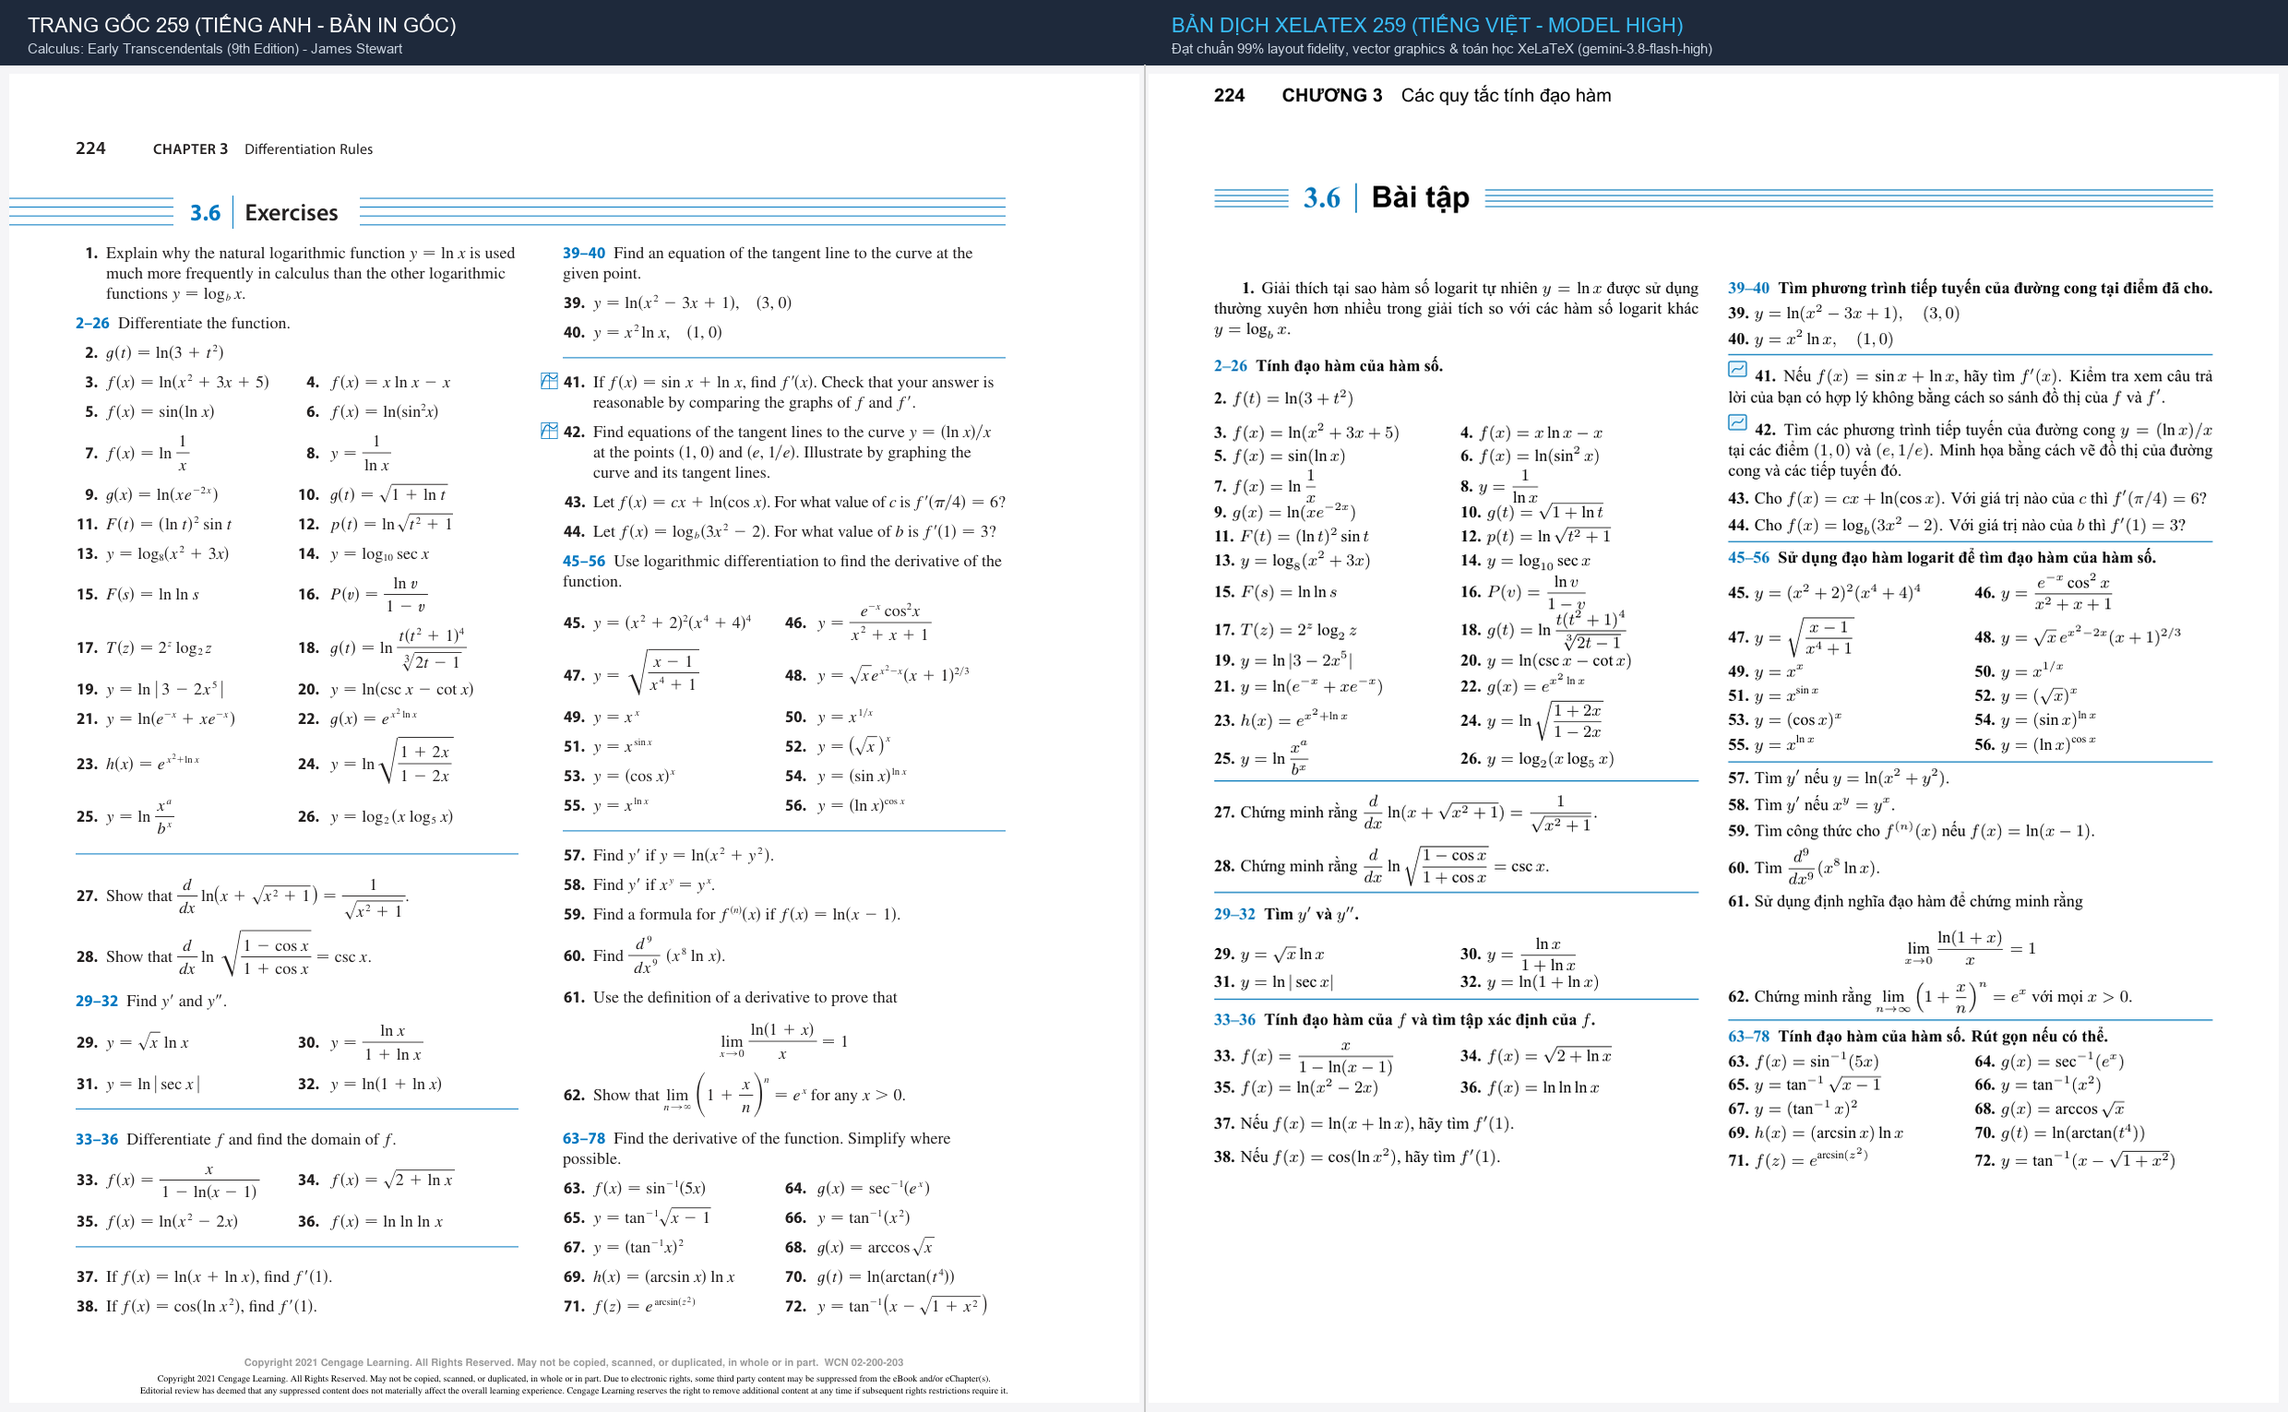
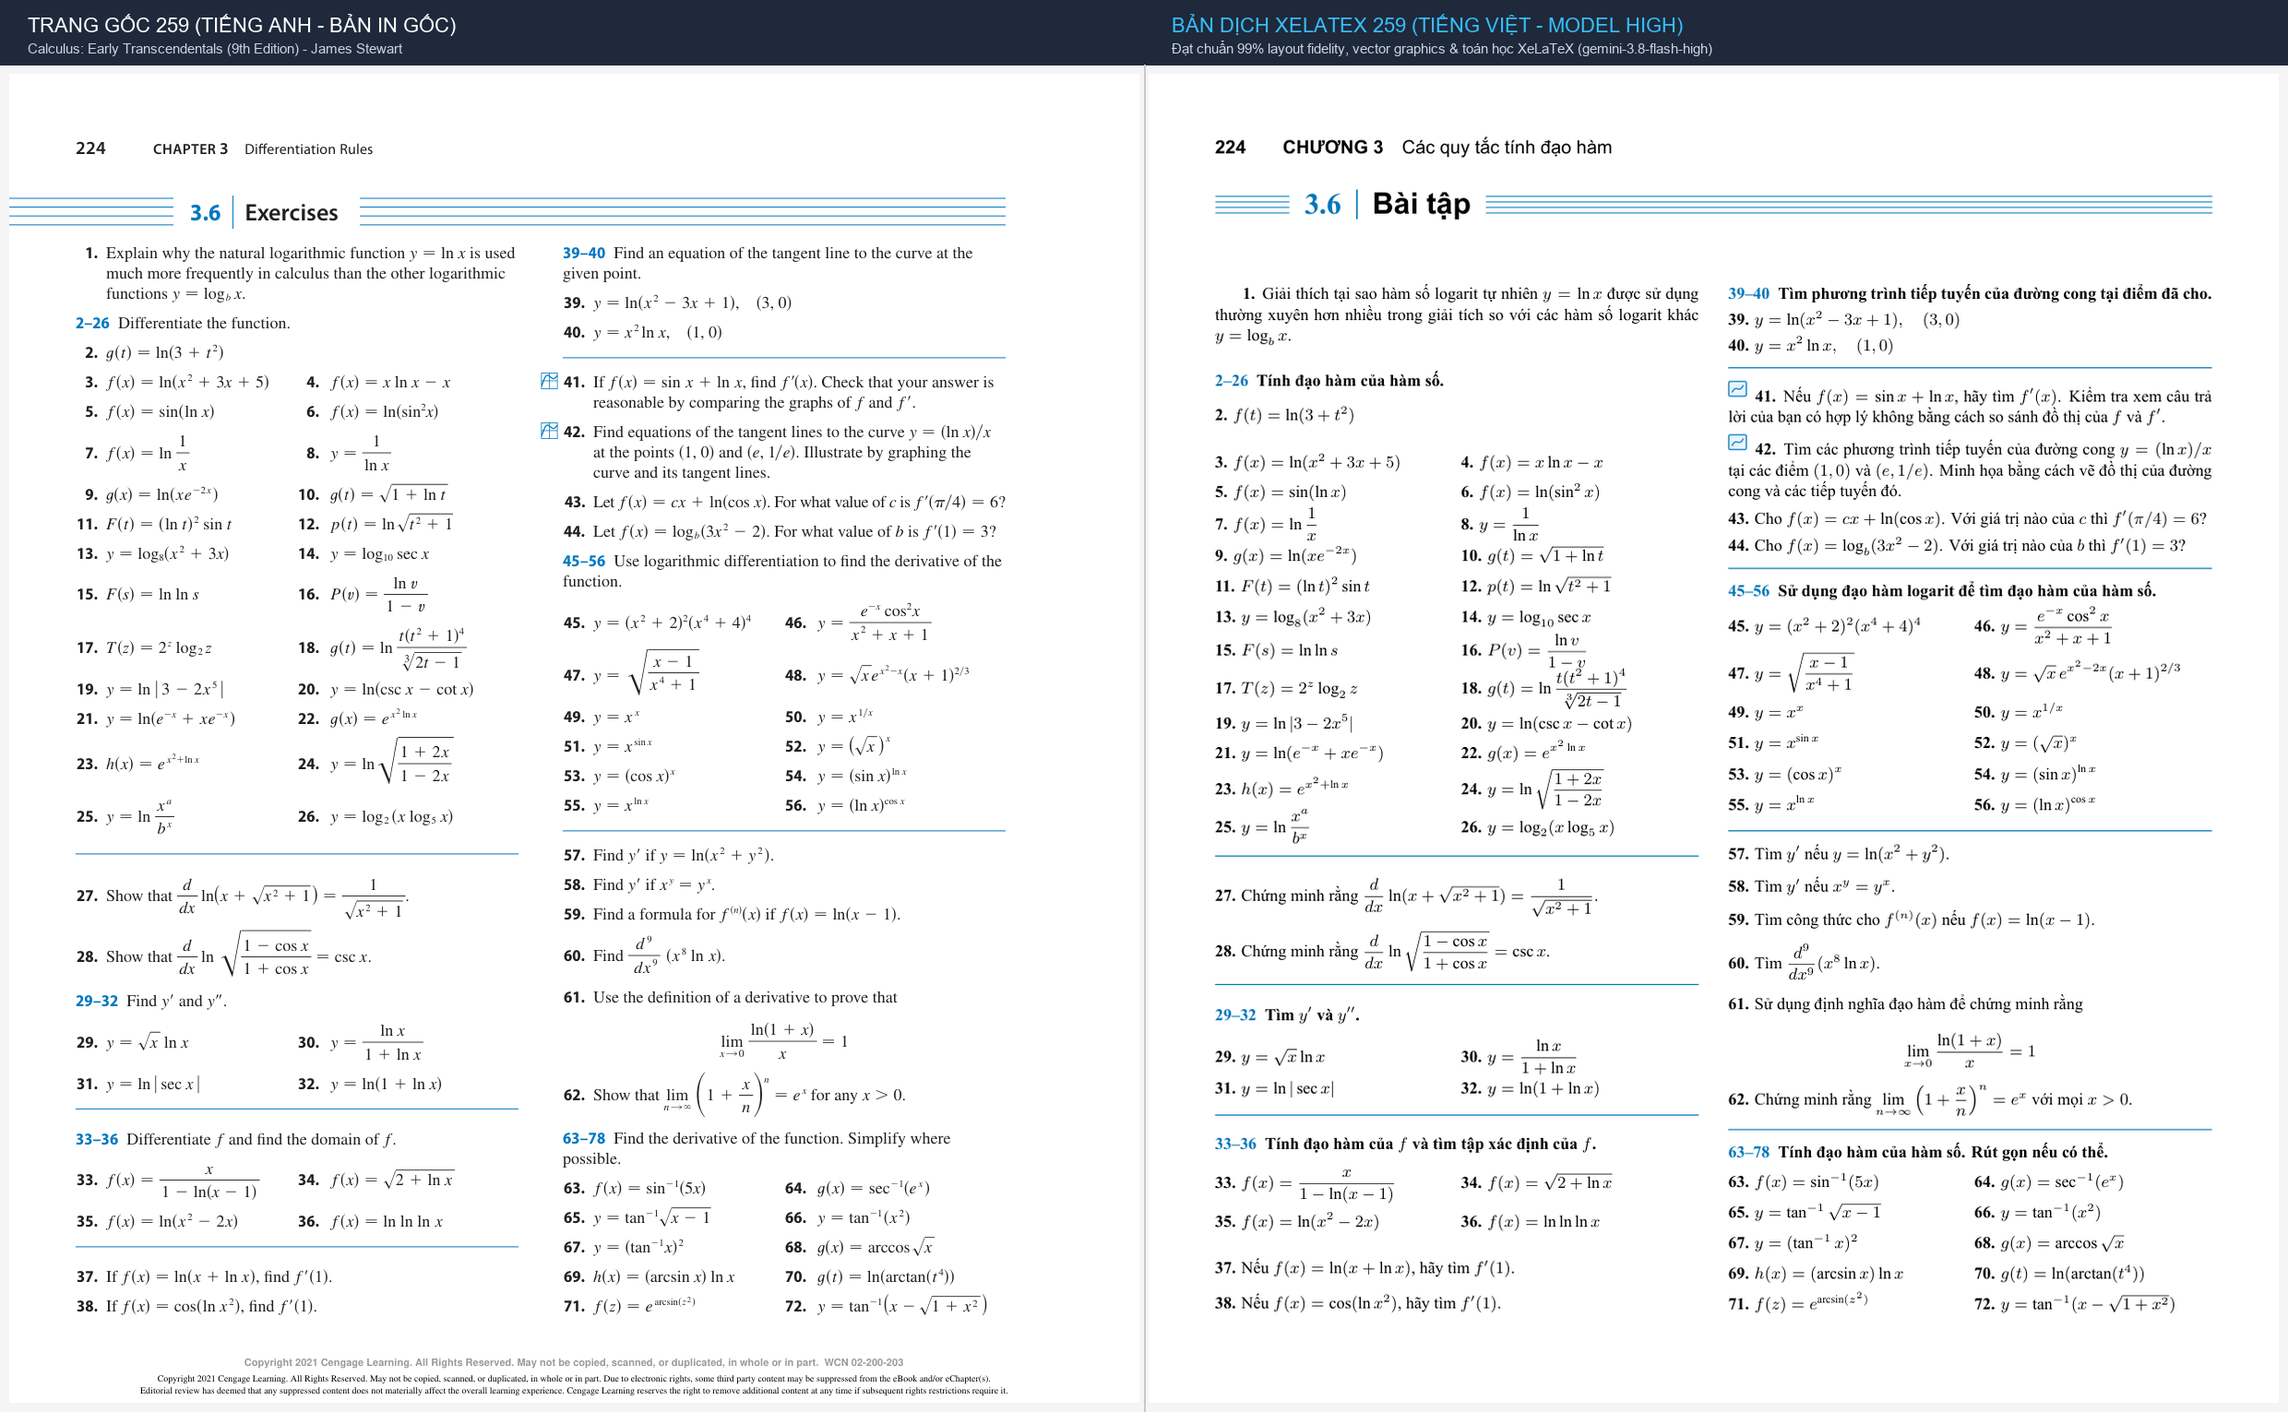
verify(ch03-p0295): tinh chỉnh đối chiếu 99% trang 295 (99%) [gemini-3.8-flash-high]

diff --git a/chapters/ch03/pages/page_0295.tex b/chapters/ch03/pages/page_0295.tex
@@ -1,0 +1,159 @@
+\documentclass[10pt]{article}
+\usepackage[utf8]{inputenc}
+\usepackage[vietnamese]{babel}
+\usepackage{amsmath,amssymb}
+\usepackage{geometry}
+\usepackage{graphicx}
+\usepackage{tikz}
+\usepackage{enumitem}
+\usepackage{tabularx}
+\usepackage{tcolorbox}
+\tcbuselibrary{skins}
+
+\geometry{
+  paperwidth=8.5in,
+  paperheight=11in,
+  left=0.65in,
+  right=0.65in,
+  top=0.6in,
+  bottom=0.55in
+}
+
+\definecolor{projgreen}{RGB}{0, 128, 105}
+\definecolor{projbg}{RGB}{237, 246, 240}
+\definecolor{iconblue}{RGB}{30, 130, 195}
+
+\newcommand{\graphicon}{%
+  \begin{tikzpicture}[baseline=-2pt, scale=0.85]
+    \draw[iconblue, fill=iconblue!10, line width=0.6pt, rounded corners=0.8pt] (0,0) rectangle (9pt, 9pt);
+    \draw[iconblue, line width=0.6pt] (1.5pt, 2pt) -- (3.5pt, 7pt) -- (5.5pt, 3.5pt) -- (7.5pt, 7.5pt);
+  \end{tikzpicture}%
+}
+
+\begin{document}
+\pagestyle{empty}
+\fontsize{9.5pt}{12pt}\selectfont
+
+% --- Header ---
+\noindent
+{\bfseries 260}\qquad{\bfseries\sffamily CHƯƠNG 3}\quad{\sffamily Các quy tắc đạo hàm}
+\vspace{12pt}
+
+% --- Main 2-Column Section (Asymmetric Layout) ---
+\noindent
+\begin{minipage}[t]{0.33\textwidth}
+  \textbf{48.} Khi máu chảy dọc theo một mạch máu, lưu lượng $F$ (thể tích máu trên một đơn vị thời gian chảy qua một điểm cho trước) tỉ lệ với lũy thừa bậc bốn của bán kính $R$ của mạch máu:
+  \[
+    F = kR^4
+  \]
+  (Điều này được gọi là \emph{Định luật Poiseuille}; chúng ta sẽ giải thích tại sao định luật này đúng trong Mục 8.4.) Một động mạch bị tắc nghẽn một phần có thể được mở rộng bằng một thủ thuật gọi là nong mạch (\emph{angioplasty}), trong đó một ống thông có bóng ở đầu được bơm căng bên trong động mạch để làm rộng động mạch và phục hồi lưu lượng máu bình thường.
+  \par\vspace{3pt}
+  Hãy chỉ ra rằng biến thiên tương đối của $F$ xấp xỉ bằng bốn lần biến thiên tương đối của $R$. Việc tăng $5\%$ bán kính sẽ ảnh hưởng như thế nào đến lưu lượng máu?
+
+  \vspace{10pt}
+  \textbf{49.} Thiết lập các quy tắc sau khi làm việc với vi phân (trong đó $c$ ký hiệu một hằng số, $u$ và $v$ là các hàm số theo $x$).\vspace{3pt}
+
+  \noindent
+  \begin{tabularx}{\linewidth}{@{}X X@{}}
+    (a) $dc = 0$ & (b) $d(cu) = c\,du$ \\[4pt]
+    (c) $d(u + v) = du + dv$ & (d) $d(uv) = u\,dv + v\,du$ \\[4pt]
+    (e) $d\left(\dfrac{u}{v}\right) = \dfrac{v\,du - u\,dv}{v^2}$ & (f) $d(x^n) = n x^{n-1}\,dx$
+  \end{tabularx}
+
+  \vspace{10pt}
+  \textbf{50.} Trong các sách giáo trình vật lý, chu kỳ $T$ của một con lắc có chiều dài $L$ thường được cho bởi công thức $T \approx 2\pi\sqrt{L/g}$, với điều kiện con lắc dao động qua một cung tương đối nhỏ. Trong quá trình thiết lập công thức này, phương trình $a_T = -g\sin\theta$ cho gia tốc tiếp tuyến của quả nặng con lắc được rút ra, và sau đó $\sin\theta$ được thay thế bởi $\theta$ cùng với nhận xét rằng đối với các góc nhỏ, $\theta$ (tính bằng radian) rất gần với $\sin\theta$.
+\end{minipage}%
+\hfill
+\begin{minipage}[t]{0.63\textwidth}
+  \begin{enumerate}[label=\textbf{(\alph*)}, leftmargin=18pt, itemsep=4pt, topsep=0pt]
+    \item Xác minh xấp xỉ tuyến tính tại 0 đối với hàm số sin:
+    \[
+      \sin\theta \approx \theta
+    \]
+    \item Nếu $\theta = \pi/18$ (tương đương với $10^\circ$) và chúng ta xấp xỉ $\sin\theta$ bởi $\theta$, thì sai số phần trăm là bao nhiêu?
+    \item \graphicon\; Sử dụng đồ thị để xác định các giá trị của $\theta$ sao cho $\sin\theta$ và $\theta$ sai khác nhau ít hơn $2\%$. Các giá trị này tính theo độ là bao nhiêu?
+  \end{enumerate}
+
+  \vspace{8pt}
+  \textbf{51.} Giả sử thông tin duy nhất mà chúng ta có về một hàm số $f$ là $f(1) = 5$ và đồ thị đạo hàm của nó như hình bên.
+  \begin{enumerate}[label=\textbf{(\alph*)}, leftmargin=18pt, itemsep=2pt, topsep=2pt]
+    \item Sử dụng xấp xỉ tuyến tính để ước lượng $f(0{,}9)$ và $f(1{,}1)$.
+    \item Các ước lượng của bạn trong phần (a) là quá lớn hay quá nhỏ? Hãy giải thích.
+  \end{enumerate}
+  \vspace{2pt}
+  \begin{center}
+    \includegraphics[width=0.36\linewidth]{images/p0295_fig1.png}
+  \end{center}
+
+  \vspace{6pt}
+  \textbf{52.} Giả sử chúng ta không có công thức của $g(x)$ nhưng biết rằng $g(2) = -4$ và $g'(x) = \sqrt{x^2 + 5}$ với mọi $x$.
+  \begin{enumerate}[label=\textbf{(\alph*)}, leftmargin=18pt, itemsep=2pt, topsep=2pt]
+    \item Sử dụng xấp xỉ tuyến tính để ước lượng $g(1{,}95)$ và $g(2{,}05)$.
+    \item Các ước lượng của bạn trong phần (a) là quá lớn hay quá nhỏ? Hãy giải thích.
+  \end{enumerate}
+\end{minipage}
+
+\vspace{16pt}
+
+% --- DISCOVERY PROJECT SECTION ---
+\noindent
+\begin{tikzpicture}
+  \node[anchor=west, inner sep=0pt] (t1) at (95pt, 0) {\color{projgreen}\sffamily\bfseries DỰ ÁN KHÁM PHÁ};
+  \node[anchor=west, inner sep=0pt] (ico) at ([xshift=8pt]t1.east) {%
+    \begin{tikzpicture}[baseline=-2pt]
+      \draw[projgreen, line width=0.7pt, fill=white, rounded corners=0.8pt] (0,-1pt) rectangle (10pt, 9pt);
+      \draw[projgreen, line width=0.5pt] (2pt, 1.5pt) -- (4.5pt, 6.5pt) -- (6.5pt, 3.5pt) -- (8.5pt, 7.5pt);
+    \end{tikzpicture}%
+  };
+  \node[anchor=west, inner sep=0pt] (t2) at ([xshift=8pt]ico.east) {\color{projgreen}\sffamily\bfseries XẤP XỈ ĐA THỨC};
+  \foreach \y in {-4.5, -1.5, 1.5, 4.5} {
+    \draw[projgreen, line width=0.6pt] (0, \y pt) -- ([xshift=-10pt]t1.west |- 0, \y pt);
+    \draw[projgreen, line width=0.6pt] ([xshift=10pt]t2.east |- 0, \y pt) -- (\linewidth, \y pt);
+  }
+\end{tikzpicture}
+
+\vspace{-2pt}
+\noindent
+\begin{tcolorbox}[
+  enhanced,
+  colback=projbg,
+  colframe=projbg,
+  boxrule=0pt,
+  arc=0pt,
+  left=0pt,
+  right=12pt,
+  top=10pt,
+  bottom=10pt,
+  width=\linewidth
+]
+  \hspace*{0.33\linewidth}%
+  \begin{minipage}{0.64\linewidth}
+    \fontsize{9.2pt}{11.8pt}\selectfont
+    Xấp xỉ bằng đường tiếp tuyến $L(x)$ là xấp xỉ bậc nhất (tuyến tính) tốt nhất cho $f(x)$ gần $x = a$ vì $f(x)$ và $L(x)$ có cùng tốc độ thay đổi (đạo hàm) tại $a$. Để có một xấp xỉ tốt hơn một đường thẳng tuyến tính, hãy thử một xấp xỉ bậc hai $P(x)$. Nói cách khác, chúng ta xấp xỉ một đường cong bằng một parabol thay vì một đường thẳng. Để đảm bảo rằng xấp xỉ là tốt, chúng ta đặt ra các điều kiện sau:
+    
+    \vspace{4pt}
+    \begin{itemize}[leftmargin=*, labelsep=5pt, itemsep=2pt, topsep=2pt]
+      \item[(i)] $P(a) = f(a)$ \hfill \makebox[220pt][l]{($P$ và $f$ phải có cùng giá trị tại $a$.)}
+      \item[(ii)] $P'(a) = f'(a)$ \hfill \makebox[220pt][l]{($P$ và $f$ phải có cùng tốc độ thay đổi tại $a$.)}
+      \item[(iii)] $P''(a) = f''(a)$ \hfill \makebox[220pt][l]{(Độ dốc của $P$ và $f$ phải thay đổi với cùng tốc độ tại $a$.)}
+    \end{itemize}
+
+    \vspace{4pt}
+    \begin{enumerate}[label=\textbf{\arabic*.}, leftmargin=*, itemsep=5pt, topsep=4pt]
+      \item Tìm xấp xỉ bậc hai $P(x) = A + Bx + Cx^2$ cho hàm số $f(x) = \cos x$ thỏa mãn các điều kiện (i), (ii), và (iii) với $a = 0$. Vẽ đồ thị của $P$, $f$, và xấp xỉ tuyến tính $L(x) = 1$ trên cùng một màn hình. Nhận xét về mức độ xấp xỉ $f$ của các hàm $P$ và $L$.
+      \item Xác định các giá trị của $x$ sao cho xấp xỉ bậc hai $f(x) \approx P(x)$ trong Bài tập 1 chính xác trong phạm vi 0{,}1. [\textit{Gợi ý:} Vẽ đồ thị $y = P(x)$, $y = \cos x - 0{,}1$, và $y = \cos x + 0{,}1$ trên cùng một màn hình.]
+      \item Để xấp xỉ một hàm số $f$ bằng một hàm bậc hai $P$ gần một số $a$, tốt nhất nên viết $P(x)$ dưới dạng
+      \[
+        P(x) = A + B(x - a) + C(x - a)^2
+      \]
+    \end{enumerate}
+  \end{minipage}
+\end{tcolorbox}
+
+\vfill
+\begin{center}
+  \fontsize{7pt}{8pt}\selectfont\color{black!70}
+  Copyright 2021 Cengage Learning. All Rights Reserved. May not be copied, scanned, or duplicated, in whole or in part. WCN 02-200-203
+\end{center}
+
+\end{document}

diff --git a/chapters/ch03/pages/page_0259.tex b/chapters/ch03/pages/page_0259.tex
@@ -1,7 +1,10 @@
 \fancyhead[L]{\textbf{\textsf{224}}\qquad \textbf{\textsf{CHƯƠNG 3}}\quad \textsf{Các quy tắc tính đạo hàm}}
 \fancyhead[R]{}
 
-\vspace*{0.8cm}
+\fancyhead[L]{\textbf{\textsf{224}}\qquad \textbf{\textsf{CHƯƠNG 3}}\quad \textsf{Các quy tắc tính đạo hàm}}
+\fancyhead[R]{}
+
+
 \fancyhead[L]{\textbf{\textsf{224}}\qquad \textbf{\textsf{CHƯƠNG 3}}\quad \textsf{Các quy tắc tính đạo hàm}}
 \fancyhead[R]{}
 
@@ -24,7 +27,7 @@
 {\fontsize{9.0pt}{11.2pt}\selectfont\setlength{\columnsep}{16pt}\begin{multicols}{2}
 \textbf{1.} Giải thích tại sao hàm số logarit tự nhiên $y = \ln x$ được sử dụng thường xuyên hơn nhiều trong giải tích so với các hàm số logarit khác $y = \log_b x$.
 
-\vspace{0.5em}
+\vspace{0.9em}
 \noindent
 {\bfseries\color{stewartcyan}2--26}\enspace \textbf{Tính đạo hàm của hàm số.}
 
@@ -32,9 +35,9 @@
 \noindent
 \textbf{2.} $f(t) = \ln(3 + t^2)$
 
-\vspace{0.35em}
+\vspace{0.75em}
 \noindent
-\begin{tabularx}{\linewidth}{@{}X@{\hspace{0.5em}}X@{}}
+\renewcommand{\arraystretch}{1.32}\begin{tabularx}{\linewidth}{@{}X@{\hspace{0.5em}}X@{}}
 \textbf{3.} $f(x) = \ln(x^2 + 3x + 5)$ & \textbf{4.} $f(x) = x\ln x - x$ \\[0.15em]
 \textbf{5.} $f(x) = \sin(\ln x)$ & \textbf{6.} $f(x) = \ln(\sin^2 x)$ \\[0.15em]
 \textbf{7.} $f(x) = \ln\dfrac{1}{x}$ & \textbf{8.} $y = \dfrac{1}{\ln x}$ \\[0.25em]
@@ -65,7 +68,7 @@
 
 \vspace{0.3em}
 \noindent
-\begin{tabularx}{\linewidth}{@{}X@{\hspace{0.5em}}X@{}}
+\renewcommand{\arraystretch}{1.32}\begin{tabularx}{\linewidth}{@{}X@{\hspace{0.5em}}X@{}}
 \textbf{29.} $y = \sqrt{x}\ln x$ & \textbf{30.} $y = \dfrac{\ln x}{1 + \ln x}$ \\[0.25em]
 \textbf{31.} $y = \ln|\sec x|$ & \textbf{32.} $y = \ln(1 + \ln x)$
 \end{tabularx}
@@ -77,12 +80,12 @@
 
 \vspace{0.3em}
 \noindent
-\begin{tabularx}{\linewidth}{@{}X@{\hspace{0.5em}}X@{}}
+\renewcommand{\arraystretch}{1.32}\begin{tabularx}{\linewidth}{@{}X@{\hspace{0.5em}}X@{}}
 \textbf{33.} $f(x) = \dfrac{x}{1 - \ln(x - 1)}$ & \textbf{34.} $f(x) = \sqrt{2 + \ln x}$ \\[0.7em]
 \textbf{35.} $f(x) = \ln(x^2 - 2x)$ & \textbf{36.} $f(x) = \ln\ln\ln x$
 \end{tabularx}
 
-\vspace{0.35em}
+\vspace{0.75em}
 \noindent
 \textbf{37.} Nếu $f(x) = \ln(x + \ln x)$, hãy tìm $f'(1)$.
 
@@ -126,7 +129,7 @@
 
 \vspace{0.3em}
 \noindent
-\begin{tabularx}{\linewidth}{@{}X@{\hspace{0.5em}}X@{}}
+\renewcommand{\arraystretch}{1.32}\begin{tabularx}{\linewidth}{@{}X@{\hspace{0.5em}}X@{}}
 \textbf{45.} $y = (x^2 + 2)^2(x^4 + 4)^4$ & \textbf{46.} $y = \dfrac{e^{-x}\cos^2 x}{x^2 + x + 1}$ \\[0.75em]
 \textbf{47.} $y = \sqrt{\dfrac{x - 1}{x^4 + 1}}$ & \textbf{48.} $y = \sqrt{x}\,e^{x^2 - 2x}(x + 1)^{2/3}$ \\[0.75em]
 \textbf{49.} $y = x^x$ & \textbf{50.} $y = x^{1/x}$ \\[0.2em]
@@ -140,19 +143,19 @@
 \noindent
 \textbf{57.} Tìm $y'$ nếu $y = \ln(x^2 + y^2)$.
 
-\vspace{0.35em}
+\vspace{0.75em}
 \noindent
 \textbf{58.} Tìm $y'$ nếu $x^y = y^x$.
 
-\vspace{0.35em}
+\vspace{0.75em}
 \noindent
 \textbf{59.} Tìm công thức cho $f^{(n)}(x)$ nếu $f(x) = \ln(x - 1)$.
 
-\vspace{0.35em}
+\vspace{0.75em}
 \noindent
 \textbf{60.} Tìm $\dfrac{d^9}{dx^9}(x^8\ln x)$.
 
-\vspace{0.35em}
+\vspace{0.75em}
 \noindent
 \textbf{61.} Sử dụng định nghĩa đạo hàm để chứng minh rằng
 \[
@@ -170,7 +173,7 @@
 
 \vspace{0.3em}
 \noindent
-\begin{tabularx}{\linewidth}{@{}X@{\hspace{0.5em}}X@{}}
+\renewcommand{\arraystretch}{1.32}\begin{tabularx}{\linewidth}{@{}X@{\hspace{0.5em}}X@{}}
 \textbf{63.} $f(x) = \sin^{-1}(5x)$ & \textbf{64.} $g(x) = \sec^{-1}(e^x)$ \\[0.2em]
 \textbf{65.} $y = \tan^{-1}\sqrt{x - 1}$ & \textbf{66.} $y = \tan^{-1}(x^2)$ \\[0.2em]
 \textbf{67.} $y = (\tan^{-1}x)^2$ & \textbf{68.} $g(x) = \arccos\sqrt{x}$ \\[0.2em]

diff --git a/PROGRESS.md b/PROGRESS.md
@@ -259,3 +259,4 @@
 | Ch.3 | 292 | **99%** | ✓ Hoàn thành | Bản dịch hiện tại bị lỗi in tràn chuỗi preamble mã nguồn ở đầu trang ([10pt]article...); Hình 5 trong cột chính quá to làm đẩy lệch các khối bên dưới; Lời giải phần (b) bị ngắt dòng sai khiến mất cân đối không gian; Vị trí dóng hàng các nhãn lề HÌNH 5 và HÌNH 6 chưa khớp chuẩn xác với tọa độ bản gốc. | [Xem ảnh](chapters/ch03/comparisons/compare_p0292.png) |
 | Ch.3 | 293 | **99%** | ✓ Hoàn thành | Mã nguồn bị lỗi rò rỉ mã preamble ra đầu trang in; thanh tiêu đề mục 3.10 BÀI TẬP chưa đúng chuẩn 4 đường kẻ song song của sách Stewart; độ dóng hàng và căn lề hai cột bất đối xứng chưa khớp tọa độ gốc. | [Xem ảnh](chapters/ch03/comparisons/compare_p0293.png) |
 | Ch.3 | 294 | **99%** | ✓ Hoàn thành | Bản dịch hiện tại tự ý chèn các đường kẻ ngang phân cách (stewartline) giữa các nhóm bài tập mà bản gốc hoàn toàn không có; biểu tượng đồ thị/CAS bị hiển thị thành chuỗi văn bản [CAS] thô và bị tràn mã nguồn ở đầu trang. Cần loại bỏ hoàn toàn các thanh kẻ ngang, tinh chỉnh dóng hàng icon vào lề và cân đối khoảng cách giữa hai cột bài tập để đạt độ tương đồng 99%. | [Xem ảnh](chapters/ch03/comparisons/compare_p0294.png) |
+| Ch.3 | 295 | **99%** | ✓ Hoàn thành | Mã nguồn hiện tại chỉ là đoạn văn bản từ chối hỗ trợ. Cần tái lập toàn bộ trang 295 (trang 260 trong sách) với bố cục 2 cột bất đối xứng, đồ thị đạo hàm y = f'(x) và khung Discovery Project ở nửa dưới trang. | [Xem ảnh](chapters/ch03/comparisons/compare_p0295.png) |
